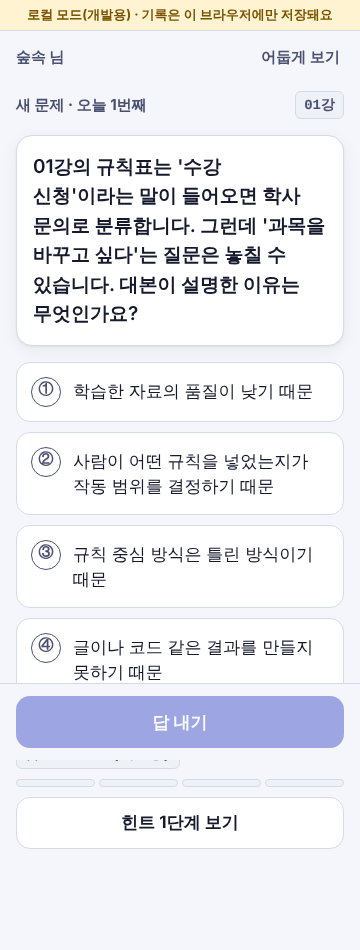
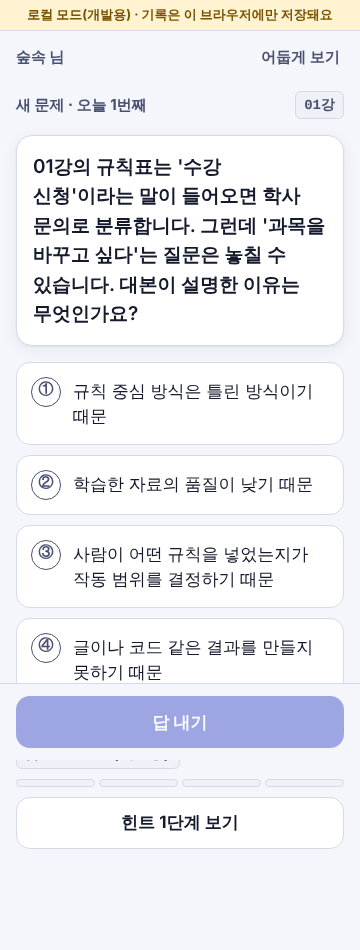
2단계 M1: QA 화면 쪽 지적 반영 완료 (테스트 33/28/29, 비서실장 재확인)
Claude-Session: https://claude.ai/code/session_0175aaPnLkJiecBkBBCATEMH

Changed region(s): [[0.0306, 0.3968, 0.8861, 0.5189], [0.1833, 0.5495, 0.8556, 0.6411]]

diff --git a/04_제품개발팀/app2/public/js/app.js b/04_제품개발팀/app2/public/js/app.js
@@ -266,7 +266,7 @@
     var ladder = '<div class="ladder" aria-label="힌트 ' + st.level + ' / 4단계">' + [1, 2, 3, 4].map(function (k) { return '<i class="' + (k <= st.level ? "on" : "") + '"></i>'; }).join("") + '</div>';
     if (st.closed) return st.level ? '<div class="hints">' + ladder + shown + '</div>' : "";
     var needThought = st.level + 1 >= 3 && st.level + 1 <= 4 && !!it.hints;
-    return '<div class="hints" id="hints"><div class="h-label">막히면 힌트를 한 단계씩 열어요' + (it.hints && it.hints.fake ? ' <span class="tag">시험용 힌트</span>' : "") + (it.hints && it.hints.draft ? ' <span class="tag" id="draft-tag">검토 전 힌트(개발용)</span>' : "") + '</div>' +
+    return '<div class="hints" id="hints"><div class="h-label">' + (it.hints ? "막히면 힌트를 한 단계씩 열어요" : "정답과 해설") + (it.hints && it.hints.fake ? ' <span class="tag">시험용 힌트</span>' : "") + (it.hints && it.hints.draft ? ' <span class="tag" id="draft-tag">검토 전 힌트(개발용)</span>' : "") + '</div>' +
       ladder + shown + noHints +
       (needThought ? '<div class="field"><label for="thought">내 생각 한 줄 (꼭 써야 다음 힌트가 열려요)</label><textarea id="thought" rows="2" maxlength="200">' + esc(it.thought) + '</textarea></div>' : "") +
       '<button class="btn btn-secondary" id="hint-btn" data-act="hint"></button></div>';

diff --git a/04_제품개발팀/테스트보고서/2026-11-02_app2_Supabase연결_자체테스트.md b/04_제품개발팀/테스트보고서/2026-11-02_app2_Supabase연결_자체테스트.md
@@ -88,3 +88,56 @@
 ## 6. 바꾼 파일
 - 고침: `app2/public/index.html`, `public/js/config.js`, `public/js/store.js`, `public/js/app.js`, `tests/run_e2e.js`(E-21), `tools/build_data.py`(설명 한 줄), `README.md`(1·3·4·5장)
 - 새로 만듦: `app2/public/js/loader.js`, `public/vendor/supabase.js`, `public/vendor/supabase-LICENSE.txt`, `tools/make_deploy.py`, `tests/mock_supabase.js`, `tests/run_e2e_supabase_mock.js`, `tests/e2e_supabase_mock_results.json`, `app2/.gitignore`(`deploy_public/`)
+
+---
+
+## 7. QA 반영 (2026-11-02, QA 독립점검 화면 쪽 지적)
+
+> **한 줄 요약**: QA 지적 중 화면 쪽 중간 4건(#1·#2·#5·#6)과 쉬운 낮음 2건(#13·#14)을 고쳤고, 바뀐 서버 규칙(다시 푼 문항 XP 0, 엉터리 답 거절)에 로컬 모드도 맞췄습니다. 자동 테스트 **33 / 28 / 29 전부 통과**(새 시험 11개 추가). 서버 파일(schema.sql)은 건드리지 않았습니다. **실DB 미검증**.
+
+### 7-1. 고친 것
+
+| QA 번호 | 무엇이 문제였나 | 어떻게 고쳤나 |
+|---|---|---|
+| 중간 1 | 진단 [다음]을 빨리 두 번 누르면 문항 건너뜀 | 버튼을 누르면 **응답이 올 때까지 화면의 버튼을 모두 잠그고**, 그 사이 누른 것은 무시. [아직 모르겠어요]도 같음 |
+| 중간 2 | [다음 문제] 연타 시 같은 문항 두 번·새 문제 1개 감소·복습 건너뜀 | 같은 잠금. [답 내기]·[힌트]·[오늘의 학습 시작]·[들어가기]·[이 별명으로 시작]·[홈으로] 등 서버에 묻는 버튼 전부 적용. 힌트 버튼의 1초 시계가 잠금을 풀지 않게 막음 |
+| 중간 5 | 진단 10문항 미만인데 [나중에 이어서 하기] 뒤 연습 시작 가능 | 홈에서 **"진단을 먼저 끝내요 — 지금 n / 12문항"** 안내 + 아래 버튼은 **[진단 이어 하기]만**(연습 시작·"여기까지로 진단 끝내기" 숨김). [오늘의 학습 시작] 안에서도 한 번 더 확인. 로컬·Supabase 모드 공통 |
+| 중간 6 | 검토 끝난 힌트가 0개면 답을 낸 뒤에도 [정답과 해설 보기](L4)가 안 열림 | 미리 만든 힌트(L1~L3)가 없는 문항은 **답을 한 번 낸 뒤 바로 L4가 열림**(10초 대기·생각 한 줄 없음). 답 내기 전에는 "힌트 준비 중 · 정답 보기는 답을 낸 뒤에 열려요", 힌트 칸에 "이 문제는 미리 만든 힌트를 준비 중이에요" 안내 유지 |
+| 낮음 13 | 배포본에 개발용 흔적 | 배포용 복사본 `config.js`에서 `DEV_CODES: []`, `SHOW_DRAFT_HINTS: false`로 바꾸고, `.lu_deploy` 표시 파일 대신 config.js 첫 줄 주석으로 표시. 남아 있으면 도구가 실패 처리. (store.js 안의 로컬 모드 코드는 그대로 — 동작 영향 없음) |
+| 낮음 14 | 별명 1글자 안내가 빨간 "문제가 생겼어요" 상자 / 진단 12문항 답한 뒤 채점 전 끊기면 "0문항 남았어요" | 별명 칸 아래 작은 안내로 / "진단 채점만 남았어요 + [진단 결과 보기]"로 |
+| 서버 변경 (a) | 복습 일정 밖에서 같은 문항을 다시 풀면 XP 0 | 로컬 모드 `store.js`도 같은 규칙(그 학생이 전에 푼 적 있는 연습 문항이면 0). 화면은 **서버가 돌려준 xp를 그대로** 보여 주고, 10보다 적으면 이유를 구분해 안내: 오늘 상한 → "(오늘 경험치 상한에 닿았어요)", 그 밖 → "(전에 풀어 본 문제라 이번엔 경험치가 없어요. 복습 날에 다시 만나면 받아요)". 홈 설명 문장에도 한 줄 추가 |
+| 서버 변경 (b) | 보기 번호 범위 밖·같은 답 두 번 → BAD_SUBMITS | 로컬 모드도 같은 검사로 거절(쉬운 문장 "답 기록이 서버 규칙과 맞지 않아 저장하지 못했어요"). 가짜 서버(mock)도 schema.sql과 같게 맞춤 |
+| 덤 | 마감 저장이 실패하면(인터넷 끊김) 버튼이 다 꺼져 갇힘 | 그 자리에 **[기록 다시 저장하기]** 버튼 |
+
+- 고치지 않은 것(지시대로): **중간 7**(아주 어려워하는 학생에게 O/X만 나옴) — 맞춤학습 설계자 검토 대기. 중간 3·4, 낮음 8~12는 서버(schema.sql) 쪽이라 비서실장 담당.
+
+### 7-2. 새로 넣은 시험 (전부 통과)
+
+| 번호 | 확인 내용 |
+|---|---|
+| U-21b | 힌트 없는 문항: 답 전 "준비 중" → 1번 낸 뒤 L4 → "정답 보고 이해", 복습도 같음 |
+| E-24 | [QA 1] 저장을 0.4초 늦춘 채 진단 [다음]·[모르겠어요] 3번 연타 → 한 칸씩만, 저장 1번, 버튼 잠김 |
+| E-25 | [QA 5] 진단 2문항 → 나중에 → 홈에 "진단을 먼저 끝내요"·[진단 이어 하기]만, 연습 기록 0 (캡처 `390_16_진단먼저.png`) |
+| E-26 | [QA 2] [답 내기]·[다음 문제] 연타 → 요청 1번, 남은 새 문제 3, 같은 문항 두 번 안 열림, 복습 2개 줄에서 1개만 꺼냄 |
+| E-27 | [QA 6] 힌트 없는 4지선다: 1번 틀림 → [정답과 해설 보기] → +10 XP, 기록 L4 (캡처 `390_17_힌트없음_L4열림.png`) |
+| E-28 | 같은 연습 문항 다시 풀기 → +0 XP + 이유 안내, 엉터리 답(`[99,98]`, `[1,1]`) 거절 |
+| S-25 | (가짜 서버, 0.4초 지연) 진단 연타 → `diag_answer` 1번씩 |
+| S-26 | (가짜 서버) 진단 2문항 → 홈 잠금, `next_practice`·`close_item` 0번 |
+| S-27 | (가짜 서버, 0.4초 지연) [답 내기]·[다음 문제] 연타 → `close_item` 1번, `next_practice` 1번 |
+| S-28 | (가짜 서버) 검토 힌트 없는 문항 → `close_item(p_level 4, p_submits [오답])` |
+| S-29 | (가짜 서버) 같은 문항 다시 → 서버 xp 0을 화면에 그대로 "+0 XP", `BAD_SUBMITS` 쉬운 안내 |
+
+- 바꾼 기존 시험: E-05(별명 1글자 안내가 `#err` 상자 → 칸 아래 `#nick-error`), S-22(배포본에 가짜 코드·검토 전 힌트 설정·`.lu_deploy` 없음 확인 추가).
+- 새 시험이 진짜로 오류를 잡는지 확인: 고치기 전 app.js로 돌리면 E-24~E-28 **5개 모두 실패** → 고친 뒤 통과.
+- 결과 숫자: 단위 **33/33**, 로컬 흐름 **28/28**, Supabase 모드(가짜 서버) **29/29** ※ 실DB 미검증.
+
+### 7-3. 남은 것
+1. **실DB 미검증** — 비서실장이 고친 schema.sql을 실제 DB에 넣은 뒤, 시험용 코드로 "같은 문항 두 번 마감 → 두 번째 xp 0"을 한 번 확인해야 함.
+2. 진단을 10~11문항에서 멈춘 채 연습을 하다가 나중에 진단을 끝내면 연습으로 쌓인 θ를 진단 값이 덮어쓰는 문제(QA 5 후반)는 남음 — 10문항 미만은 이제 연습을 못 하므로 생길 수 있는 경우는 "10~11문항 답한 학생"뿐. 서버 `diag_finish`와 함께 정할 일.
+3. 배포본 store.js 안의 로컬 모드 코드(QA 13 일부)는 동작 영향이 없어 그대로 둠.
+4. 시험을 돌리면 `screenshots/` 사진과 `tests/*_results.json`이 다시 만들어짐(새 사진 2장 추가).
+
+### 7-4. 바꾼 파일
+- `app2/public/js/app.js`(연타 잠금·진단 먼저·힌트 없을 때 L4·XP 안내·별명 안내·다시 저장), `public/js/logic.js`(`canOpenHint`), `public/js/store.js`(로컬 다시 풀기 XP 0·답 기록 검사)
+- `app2/tools/make_deploy.py`(개발용 설정 제거·표시 방식), `README.md`(힌트 한 줄)
+- 시험: `tests/unit_logic.js`, `tests/run_e2e.js`, `tests/run_e2e_supabase_mock.js`, `tests/mock_supabase.js`(서버 규칙·지연·다음 문항 지정)

diff --git a/01_비서실/업무현황판.md b/01_비서실/업무현황판.md
@@ -4,7 +4,7 @@
 
 _마지막 갱신: 2026-11-02_
 
-**한 줄 요약: 2단계 M1 개발 중. Supabase에 표·보안 규칙·문항 221개 설치, 서버 기능 시험 통과. 앱 화면 Supabase 연결 완료(테스트 32·23·24 모두 통과). 다음: QA 독립 점검·코드 카드.**
+**한 줄 요약: 2단계 M1 앱 완성 단계 — QA 지적 반영 끝(테스트 33·28·29 통과). 다음: 코드 카드·캡틴 휴대폰 체험 준비(배포는 캡틴 승인 후).**
 
 ## 🔴 결재 대기
 - (없음)
@@ -13,6 +13,7 @@ _마지막 갱신: 2026-11-02_
 - 앱 개발자: 2단계 M1 로컬 모드 완성(`04_제품개발팀/app2/`) — 자체 테스트 단위 32/32·화면 흐름 23/23, Supabase 초안(schema.sql) 임시 DB 시험 통과. 다음: QA 독립 검사, Supabase 문항 넣기·앱 연결 (2026-11-02)
 
 ## 🟢 완료
+- 2026-11-02 QA 독립점검(높음 0·중간 7·낮음 8) 반영: 서버 구멍 4건(반복 XP·엉터리 답·동시 요청·진단 난이도0) 비서실장 수정·실DB 시험 통과, 화면 4건(연타·진단 먼저·힌트 0개일 때 정답 보기·배포본 흔적) 앱 개발자 수정 — 테스트 33/28/29(비서실장 재확인). 남은 것: 중간 7(어려워하는 학생에게 O/X 몰림) 맞춤학습 설계자 검토
 - 2026-11-02 앱 개발자: app2 Supabase 모드 완성 — 연결 라이브러리 내장(외부 요청 0), 오류 쉬운 말 안내, 배포용 폴더 만드는 도구(정답 파일 자동 제외). 테스트 단위 32/32·화면 23/23·Supabase 모드 24/24 (비서실장 재확인). 실제 서버 연결 화면 시험은 캡틴 휴대폰 체험 때 확인
 - 2026-11-02 Supabase 문항 넣기: 문항 221·정답 221·힌트 31(모두 검토 전) — 원본과 합계 대조 일치. 가짜 학생 1명으로 서버 기능 시험(코드 입력→진단→연습→마감→홈 숫자) 통과, 평가 문항·진단 정답·숨은 실력값 학생에게 안 보임 확인. 코드 카드 함수 오류 1건 발견·수정
 - 2026-11-02 Supabase edu-gamify 설치: 옛 2025년 빈 표 11개 old_ 보관(잠금), 새 표 11개·서버 함수 8개 설치, 보안 점검 반영(RLS 꺼진 표 0, 내부 함수·숨은 실력값 학생 차단) — `04_제품개발팀/app2/supabase/`
